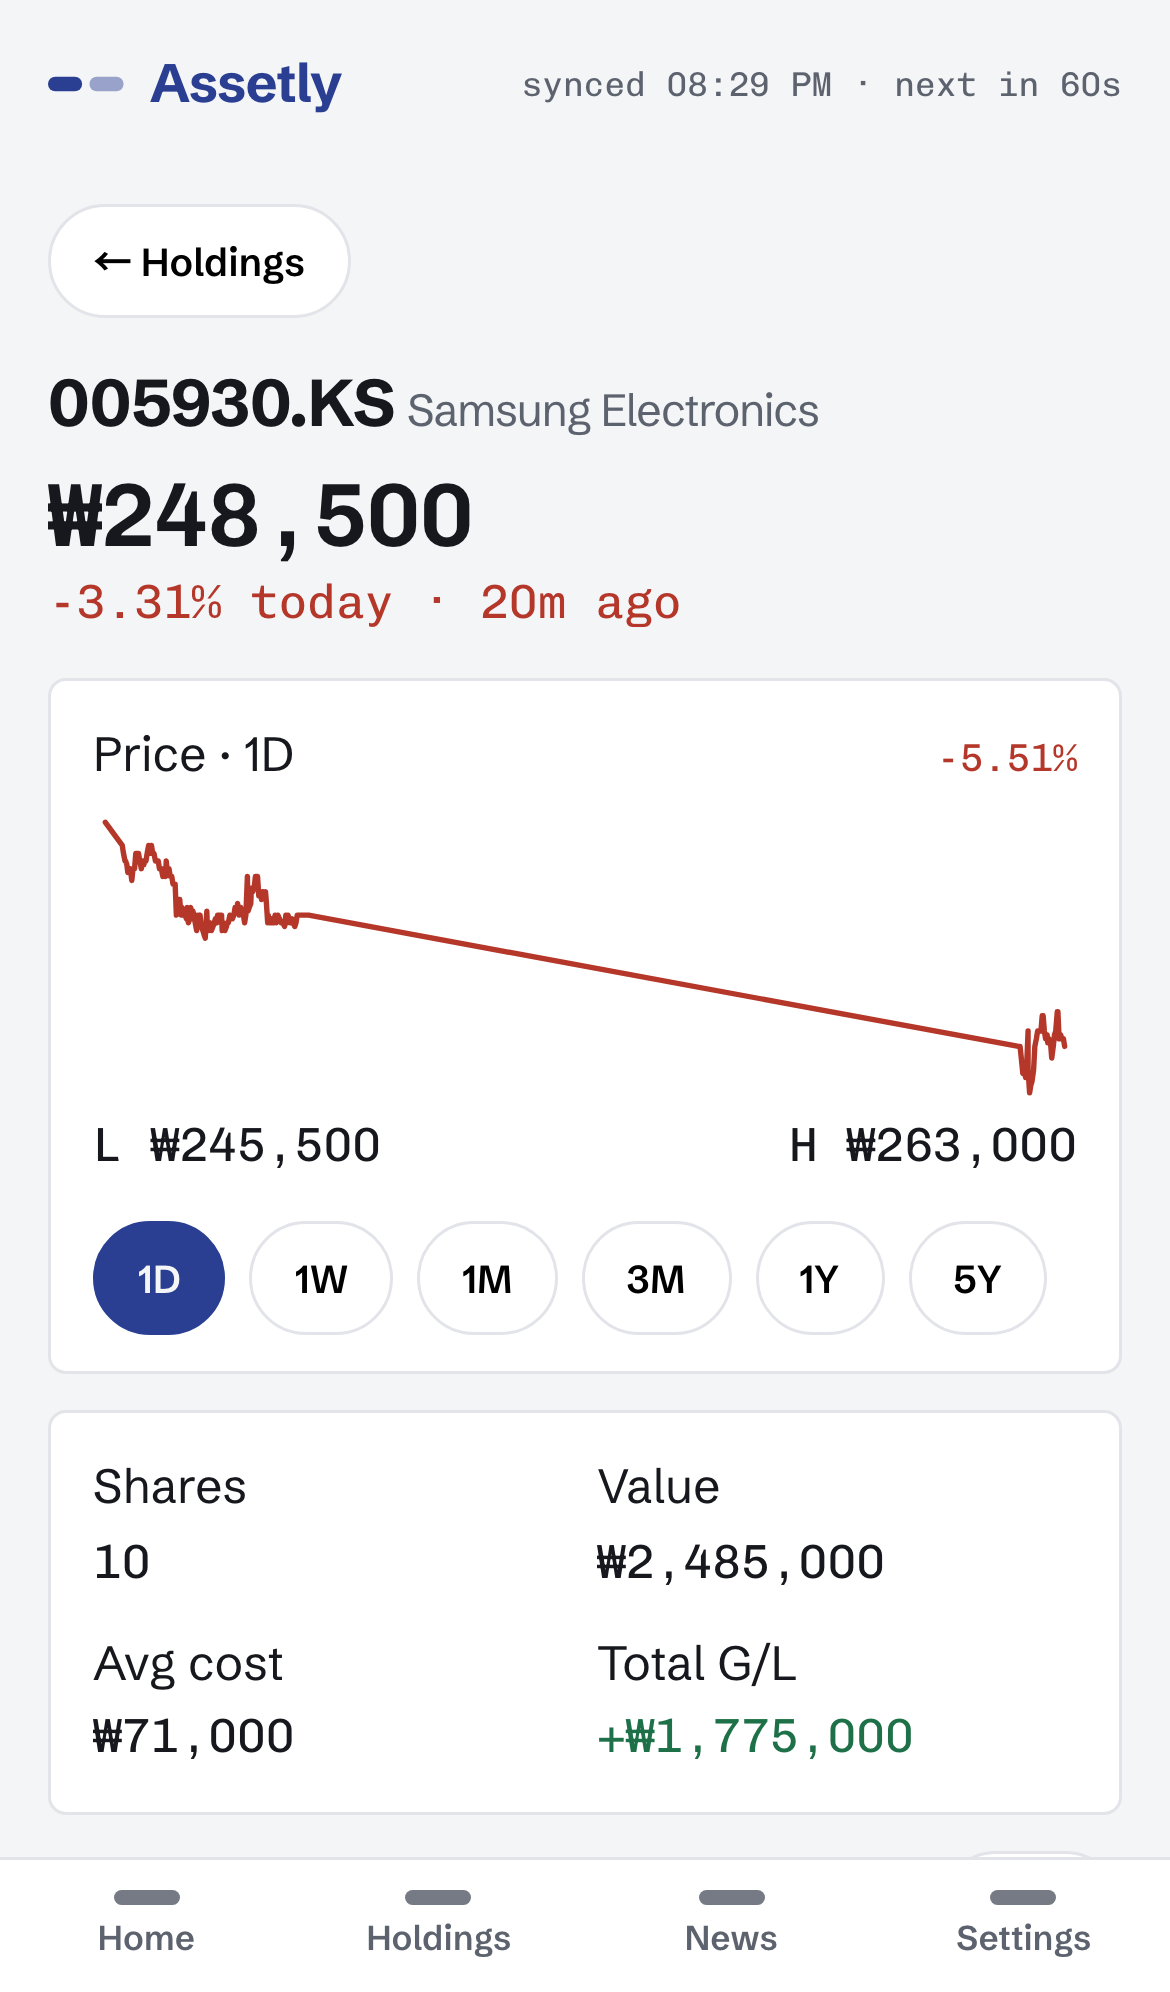
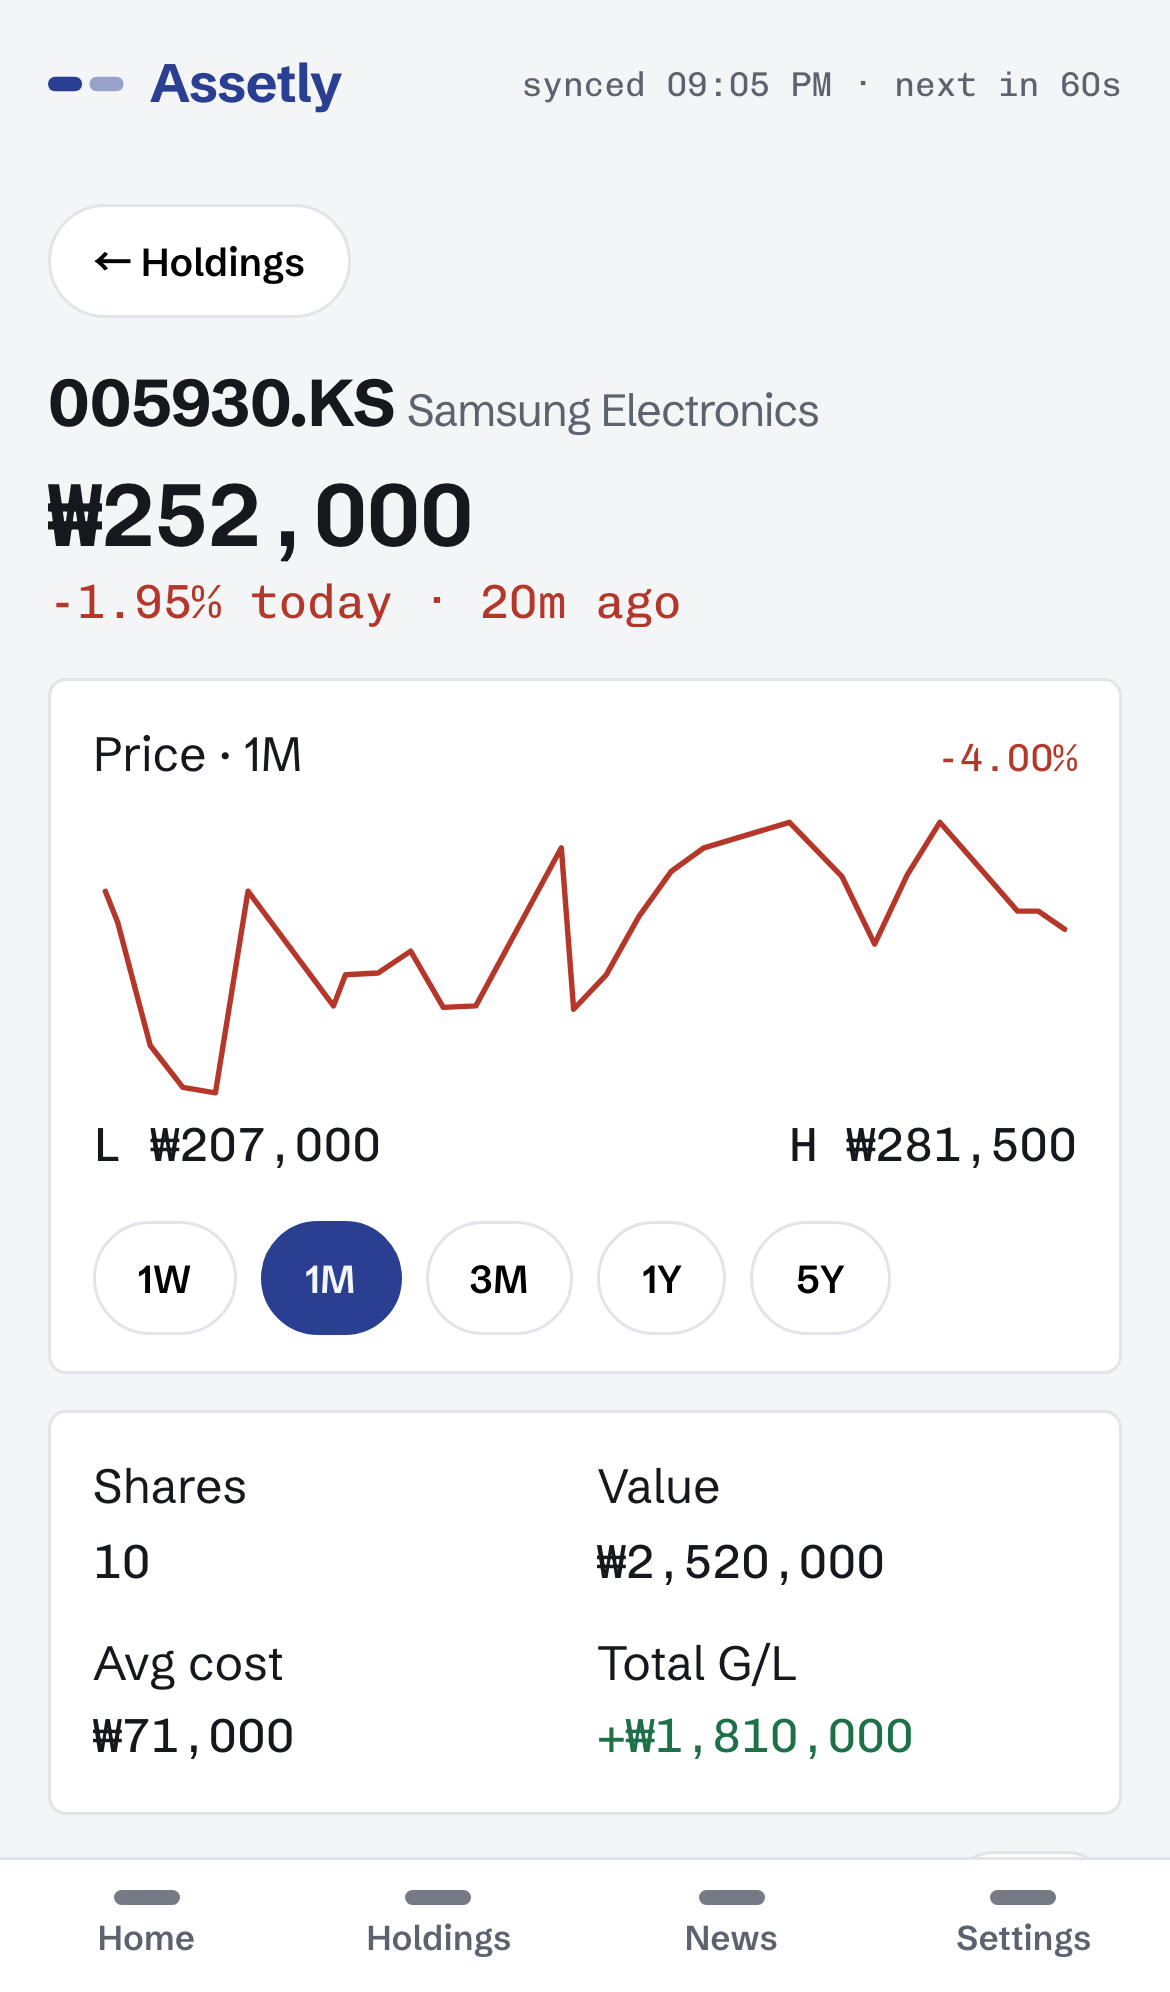
Persona simulation fleet: 10 personas, 30-day harness; quality log
Claude-Session: https://claude.ai/code/session_01UrXDbe72LnXzKfy7ekZgnY

diff --git a/QUALITY.md b/QUALITY.md
@@ -50,6 +50,11 @@ production project; **Judged** = scored against the stated criterion.
 8. iPhone e2e race on derived-average assertion → wait-for.
 9. (8/24) Yahoo search API rejects Hangul queries ("Invalid Search Query") → server-side
    Korean→English alias rewrite in symbol-search; caught by cloud battery C3.
+10c. (8/25) Chart redraw per user feedback: daily closes only (one point per day, live
+   price = today's point while trading); 1D chip dropped. Instant news: news-sync gained
+   CORS + on-demand {symbols} pulls, add-flows fire an immediate pull, News screen
+   self-heals empty scopes ("Pulling the latest stories…") — the 15-minute wait message
+   is gone. 10-persona 30-day simulation fleet added (e2e/persona-sim.mjs + personas.json).
 10b. (8/25) 5Y depth: ensure now backfills 5y weekly + 1y daily + 5d 15m per ticker; 1Y/5Y
    chips added; one-time sweep backfilled all 18 cloud symbols (MARA spans to Aug 2021).
    Deploy bug found: old/new index.html are size-identical (hash-only diff) so rsync's
